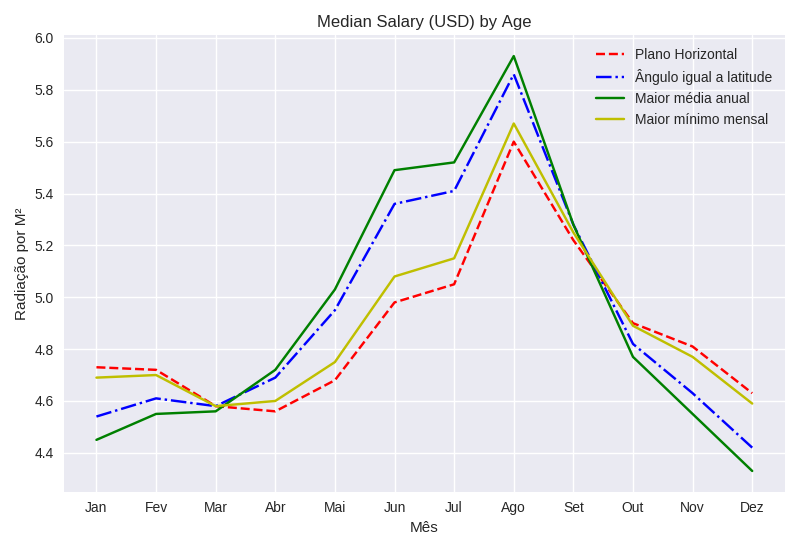
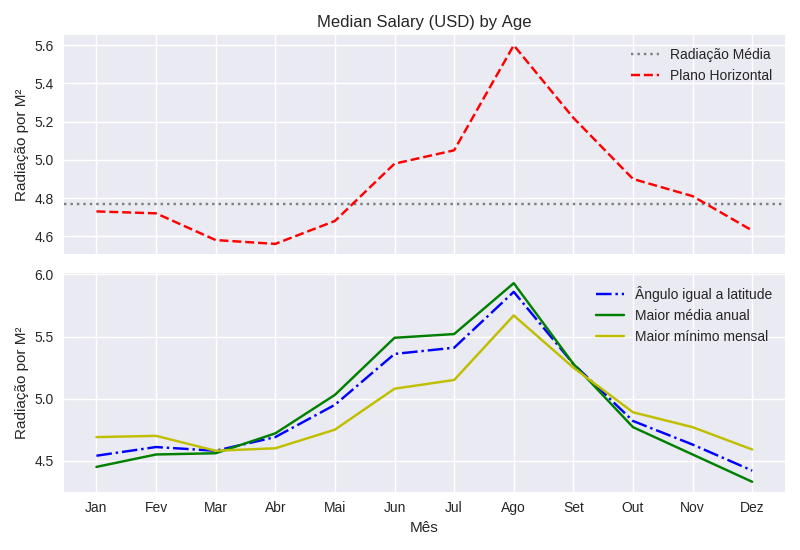
XD

diff --git a/process.py b/process.py
@@ -10,27 +10,36 @@ keys = ['Jan', 'Fev', 'Mar', 'Abr', 'Mai', 'Jun', 'Jul', 'Ago', 'Set', 'Out', 'N
 
 data = pd.DataFrame()
 
+
 meses = data['mes'] = keys
 plan_horizon = data['Plano Horizontal'] = list_of_lists[0]
 equal_latitude = data['Ângulo igual a latitude'] = list_of_lists[1]
 maior_media = data['Maior média anual'] = list_of_lists[2]
 maior_minimo = data['Maior mínimo mensal'] = list_of_lists[3]
 
-
-fig, ax = plt.subplots()
-
-ax.plot(meses, plan_horizon, color='r', linestyle='--', label='Plano Horizontal')
-ax.plot(meses, equal_latitude, color='b', linestyle='-.', label='Ângulo igual a latitude')
-ax.plot(meses, maior_media, color='g', linestyle='-', label='Maior média anual')
-ax.plot(meses, maior_minimo, color='y', linestyle='-', label='Maior mínimo mensal')
+media =data['Plano Horizontal'].median()
 
 
+fig, (ax1, ax2) = plt.subplots(nrows=2, ncols=1, sharex=True)
 
-ax.legend()
+ax1.axhline(media, color='gray', linestyle='dotted', label='Radiação Média')
+ax1.plot(meses, plan_horizon, color='r', linestyle='--', label='Plano Horizontal')
+ax2.plot(meses, equal_latitude, color='b', linestyle='-.', label='Ângulo igual a latitude')
+ax2.plot(meses, maior_media, color='g', linestyle='-', label='Maior média anual')
+ax2.plot(meses, maior_minimo, color='y', linestyle='-', label='Maior mínimo mensal')
 
-ax.set_title('Median Salary (USD) by Age')
-ax.set_xlabel('Mês')
-ax.set_ylabel('Radiação por M²')
+
+
+ax1.legend()
+ax1.set_title('Median Salary (USD) by Age')
+# ax1.set_xlabel('Mês')
+ax1.set_ylabel('Radiação por M²')
+
+
+ax2.legend()
+# ax2.set_title('Median Salary (USD) by Age')
+ax2.set_xlabel('Mês')
+ax2.set_ylabel('Radiação por M²')
 
 plt.tight_layout()
 
